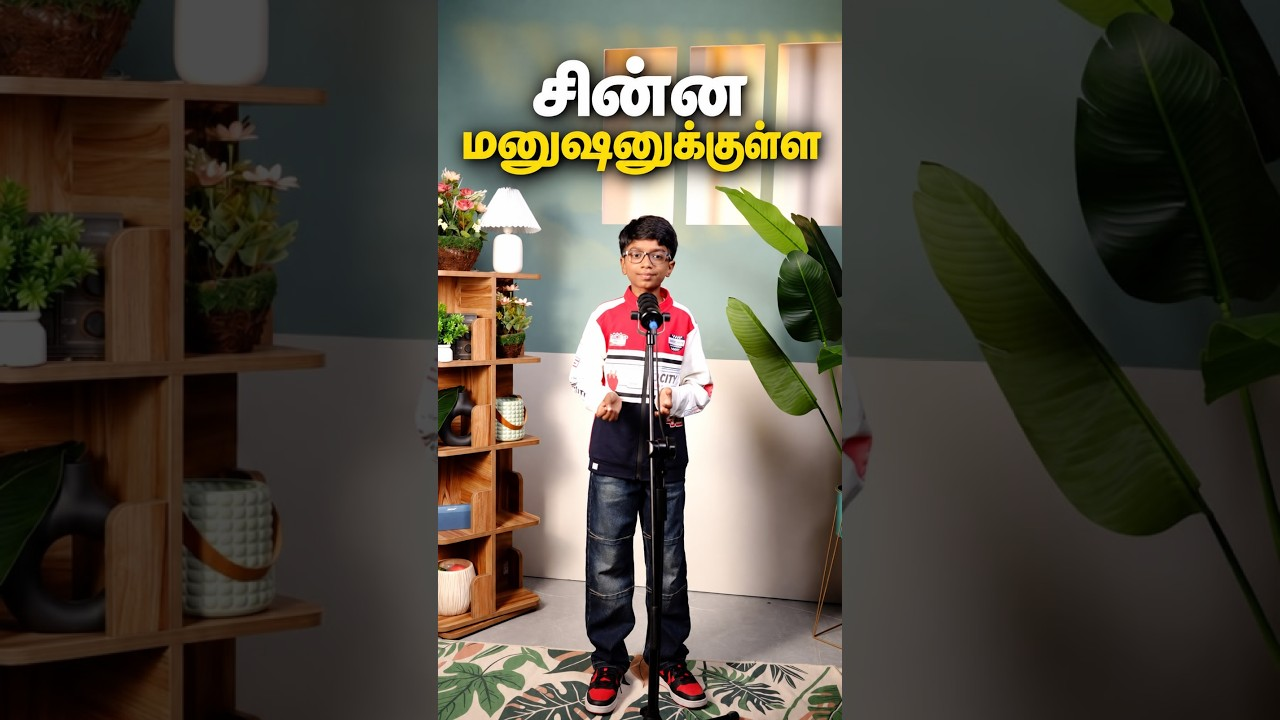
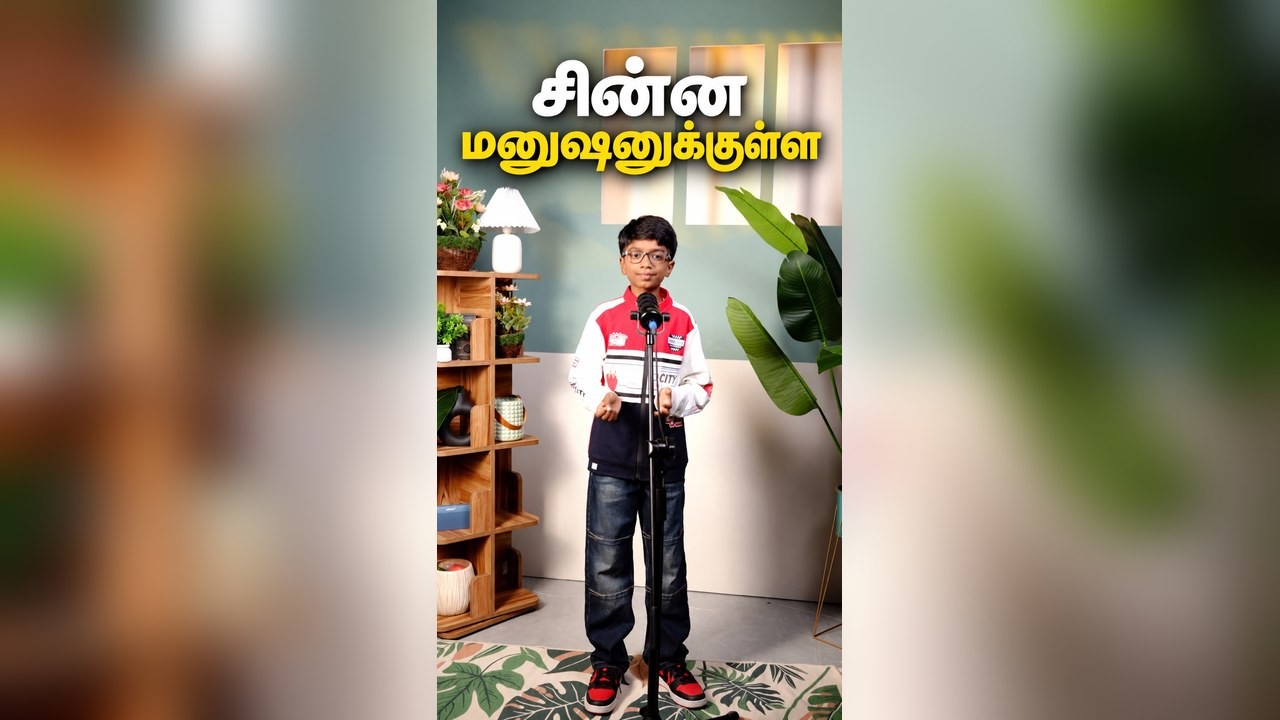
Song 74: use owner-supplied custom thumbnail; custom_thumb override in build.py

diff --git a/s/T1DWqFnb70Q/index.html b/s/T1DWqFnb70Q/index.html
@@ -10,8 +10,8 @@
 <meta property="og:title" content="சின்ன மனுஷனுக்குள்ள | Song 74 | Week 37 | Cover by 🎤 Chris Samuel Charles &amp; Chaziel Moses Charles">
 <meta property="og:description" content="Watch on YouTube · Kingdom Brothers - Official">
 <meta property="og:url" content="https://watch.kingdombrothers.in/s/T1DWqFnb70Q/">
-<meta property="og:image" content="https://watch.kingdombrothers.in/s/T1DWqFnb70Q/thumb-38a9d531.jpg">
-<meta property="og:image:secure_url" content="https://watch.kingdombrothers.in/s/T1DWqFnb70Q/thumb-38a9d531.jpg">
+<meta property="og:image" content="https://watch.kingdombrothers.in/s/T1DWqFnb70Q/thumb-8f8b0234.jpg">
+<meta property="og:image:secure_url" content="https://watch.kingdombrothers.in/s/T1DWqFnb70Q/thumb-8f8b0234.jpg">
 <meta property="og:image:type" content="image/jpeg">
 <meta property="og:image:width" content="1280">
 <meta property="og:image:height" content="720">
@@ -19,7 +19,7 @@
 <meta name="twitter:card" content="summary_large_image">
 <meta name="twitter:title" content="சின்ன மனுஷனுக்குள்ள | Song 74 | Week 37 | Cover by 🎤 Chris Samuel Charles &amp; Chaziel Moses Charles">
 <meta name="twitter:description" content="Watch on YouTube · Kingdom Brothers - Official">
-<meta name="twitter:image" content="https://watch.kingdombrothers.in/s/T1DWqFnb70Q/thumb-38a9d531.jpg">
+<meta name="twitter:image" content="https://watch.kingdombrothers.in/s/T1DWqFnb70Q/thumb-8f8b0234.jpg">
 <meta http-equiv="refresh" content="0;url=https://www.youtube.com/shorts/T1DWqFnb70Q">
 <style>
 body{margin:0;font-family:system-ui,-apple-system,Segoe UI,Roboto,sans-serif;background:#0f0f0f;color:#fff;display:flex;min-height:100vh;align-items:center;justify-content:center}
@@ -31,7 +31,7 @@ h1{font-size:1.1rem;line-height:1.4}
 </head>
 <body>
 <main>
-<a href="https://www.youtube.com/shorts/T1DWqFnb70Q"><img src="thumb-38a9d531.jpg" alt="சின்ன மனுஷனுக்குள்ள | Song 74 | Week 37 | Cover by 🎤 Chris Samuel Charles &amp; Chaziel Moses Charles" width="1280" height="720"></a>
+<a href="https://www.youtube.com/shorts/T1DWqFnb70Q"><img src="thumb-8f8b0234.jpg" alt="சின்ன மனுஷனுக்குள்ள | Song 74 | Week 37 | Cover by 🎤 Chris Samuel Charles &amp; Chaziel Moses Charles" width="1280" height="720"></a>
 <h1>சின்ன மனுஷனுக்குள்ள | Song 74 | Week 37 | Cover by 🎤 Chris Samuel Charles &amp; Chaziel Moses Charles</h1>
 <a class="btn" href="https://www.youtube.com/shorts/T1DWqFnb70Q">&#9654; Watch on YouTube</a>
 <p><small>Redirecting&hellip; If nothing happens, tap the button.</small></p>

diff --git a/index.html b/index.html
@@ -8,7 +8,7 @@
 <meta property="og:title" content="Kingdom Brothers - Official – Shorts">
 <meta property="og:description" content="78 song covers · Watch on YouTube">
 <meta property="og:url" content="https://watch.kingdombrothers.in/">
-<meta property="og:image" content="https://watch.kingdombrothers.in/s/T1DWqFnb70Q/thumb-38a9d531.jpg">
+<meta property="og:image" content="https://watch.kingdombrothers.in/s/T1DWqFnb70Q/thumb-8f8b0234.jpg">
 <meta property="og:image:width" content="1280">
 <meta property="og:image:height" content="720">
 <meta name="twitter:card" content="summary_large_image">
@@ -23,7 +23,7 @@ header{padding:20px 16px} h1{margin:0;font-size:1.4rem} header a{color:#aaa}
 <body>
 <header><h1>Kingdom Brothers - Official – Shorts</h1><a href="https://www.youtube.com/@KingdomBrothersOfficial">YouTube channel</a></header>
 <div class="grid">
-<a class="card" href="s/T1DWqFnb70Q/"><img loading="lazy" src="s/T1DWqFnb70Q/thumb-38a9d531.jpg" alt=""><p>சின்ன மனுஷனுக்குள்ள | Song 74 | Week 37 | Cover by 🎤 Chris Samuel Charles &amp; Chaziel Moses Charles</p></a>
+<a class="card" href="s/T1DWqFnb70Q/"><img loading="lazy" src="s/T1DWqFnb70Q/thumb-8f8b0234.jpg" alt=""><p>சின்ன மனுஷனுக்குள்ள | Song 74 | Week 37 | Cover by 🎤 Chris Samuel Charles &amp; Chaziel Moses Charles</p></a>
 <a class="card" href="s/gQIJ-A1NUHA/"><img loading="lazy" src="s/gQIJ-A1NUHA/thumb.jpg" alt=""><p>மீண்டும் கட்டுகிறீர் | Song 73 | Week 37 | Cover by 🎤 Chris Samuel Charles &amp; Chaziel Moses Charles</p></a>
 <a class="card" href="s/nTv3V_c4xLo/"><img loading="lazy" src="s/nTv3V_c4xLo/thumb.jpg" alt=""><p>யெகோவா தேவனுக்கு | Song 72 | Week 36 | Cover by 🎤 Chris Samuel Charles &amp; Chaziel Moses Charles 🎸🎹</p></a>
 <a class="card" href="s/wcKuf3iLTTU/"><img loading="lazy" src="s/wcKuf3iLTTU/thumb.jpg" alt=""><p>துயரத்தில் கூப்பிட்டேன்| Song 71 | Week 36 | Cover by Chris Samuel Charles &amp; Chaziel Moses Charles</p></a>

diff --git a/build.py b/build.py
@@ -239,7 +239,7 @@ def main():
         if v is None: continue
         d = os.path.join(HERE, "s", vid); os.makedirs(d, exist_ok=True)
         tp = os.path.join(d, "thumb.jpg")
-        if not a.no_fetch and (a.force_thumbs or not os.path.exists(tp)):
+        if not a.no_fetch and not v.get("custom_thumb") and (a.force_thumbs or not os.path.exists(tp)):  # custom_thumb in shorts.json = manual override, never refetched
             src, size = make_thumb(vid, tp)
             v["thumb_src"], v["thumb_bytes"] = src, size
             # content-hashed copy so WhatsApp/CDN caches see a new URL when the image changes
